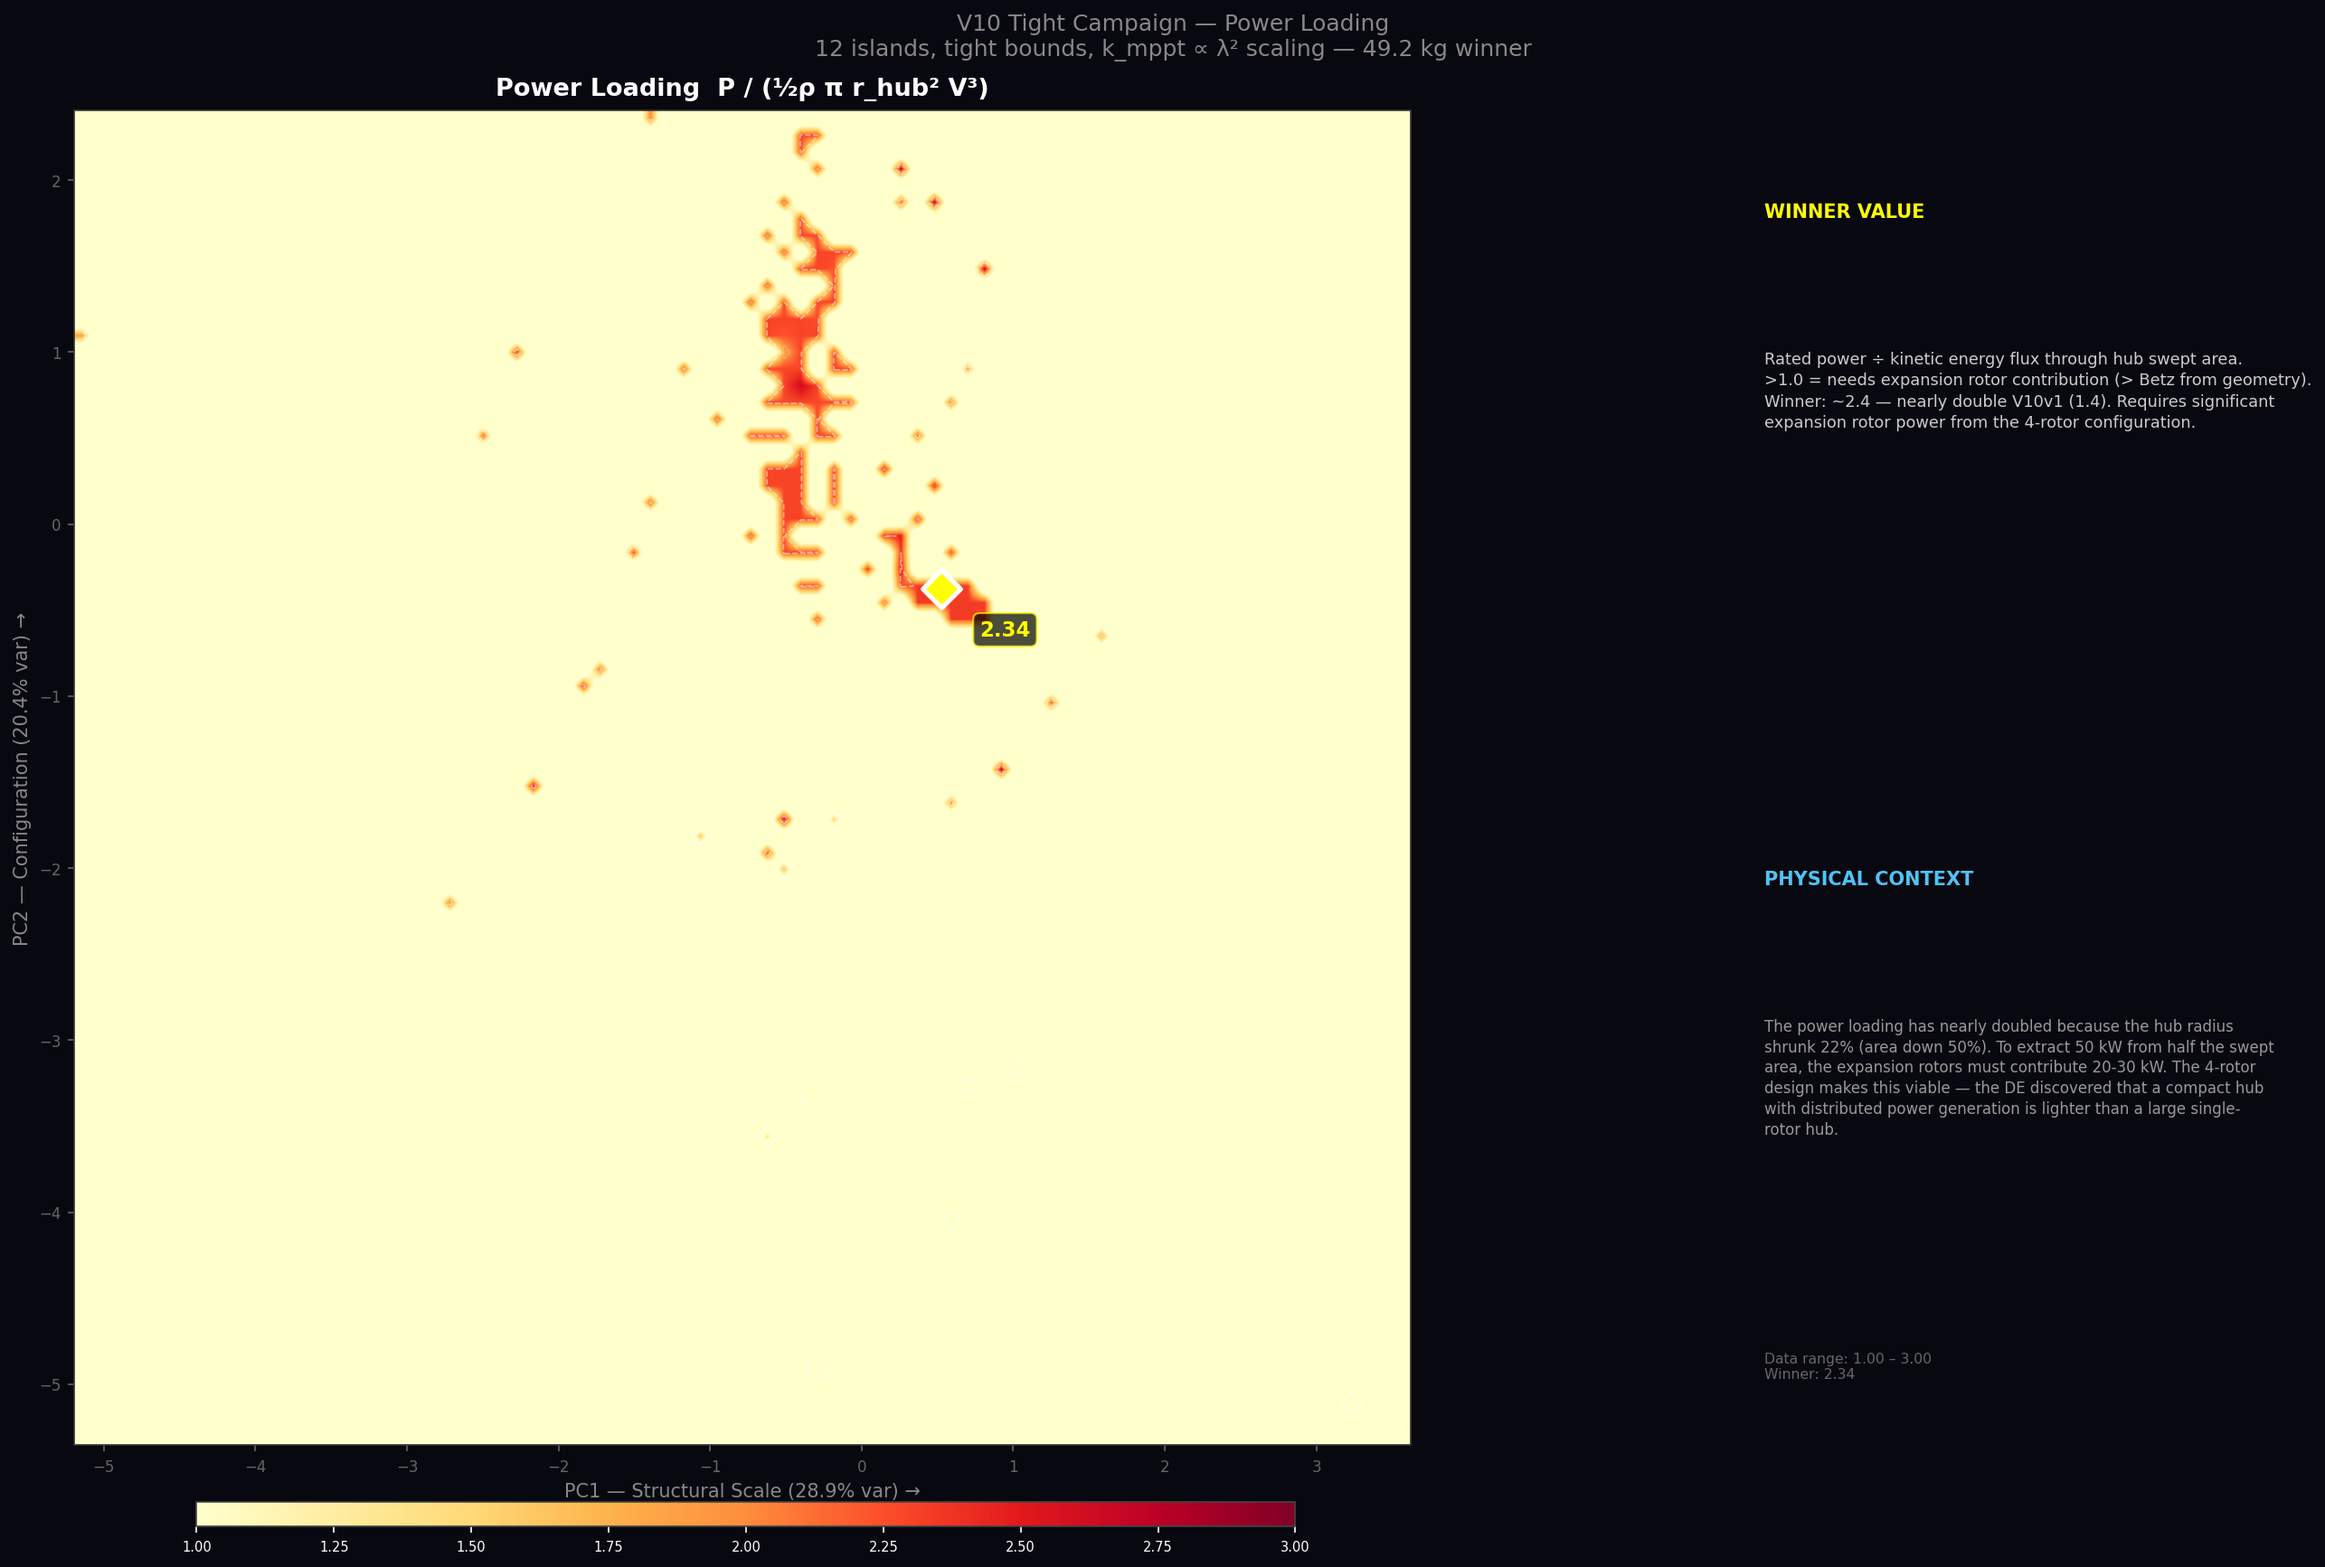
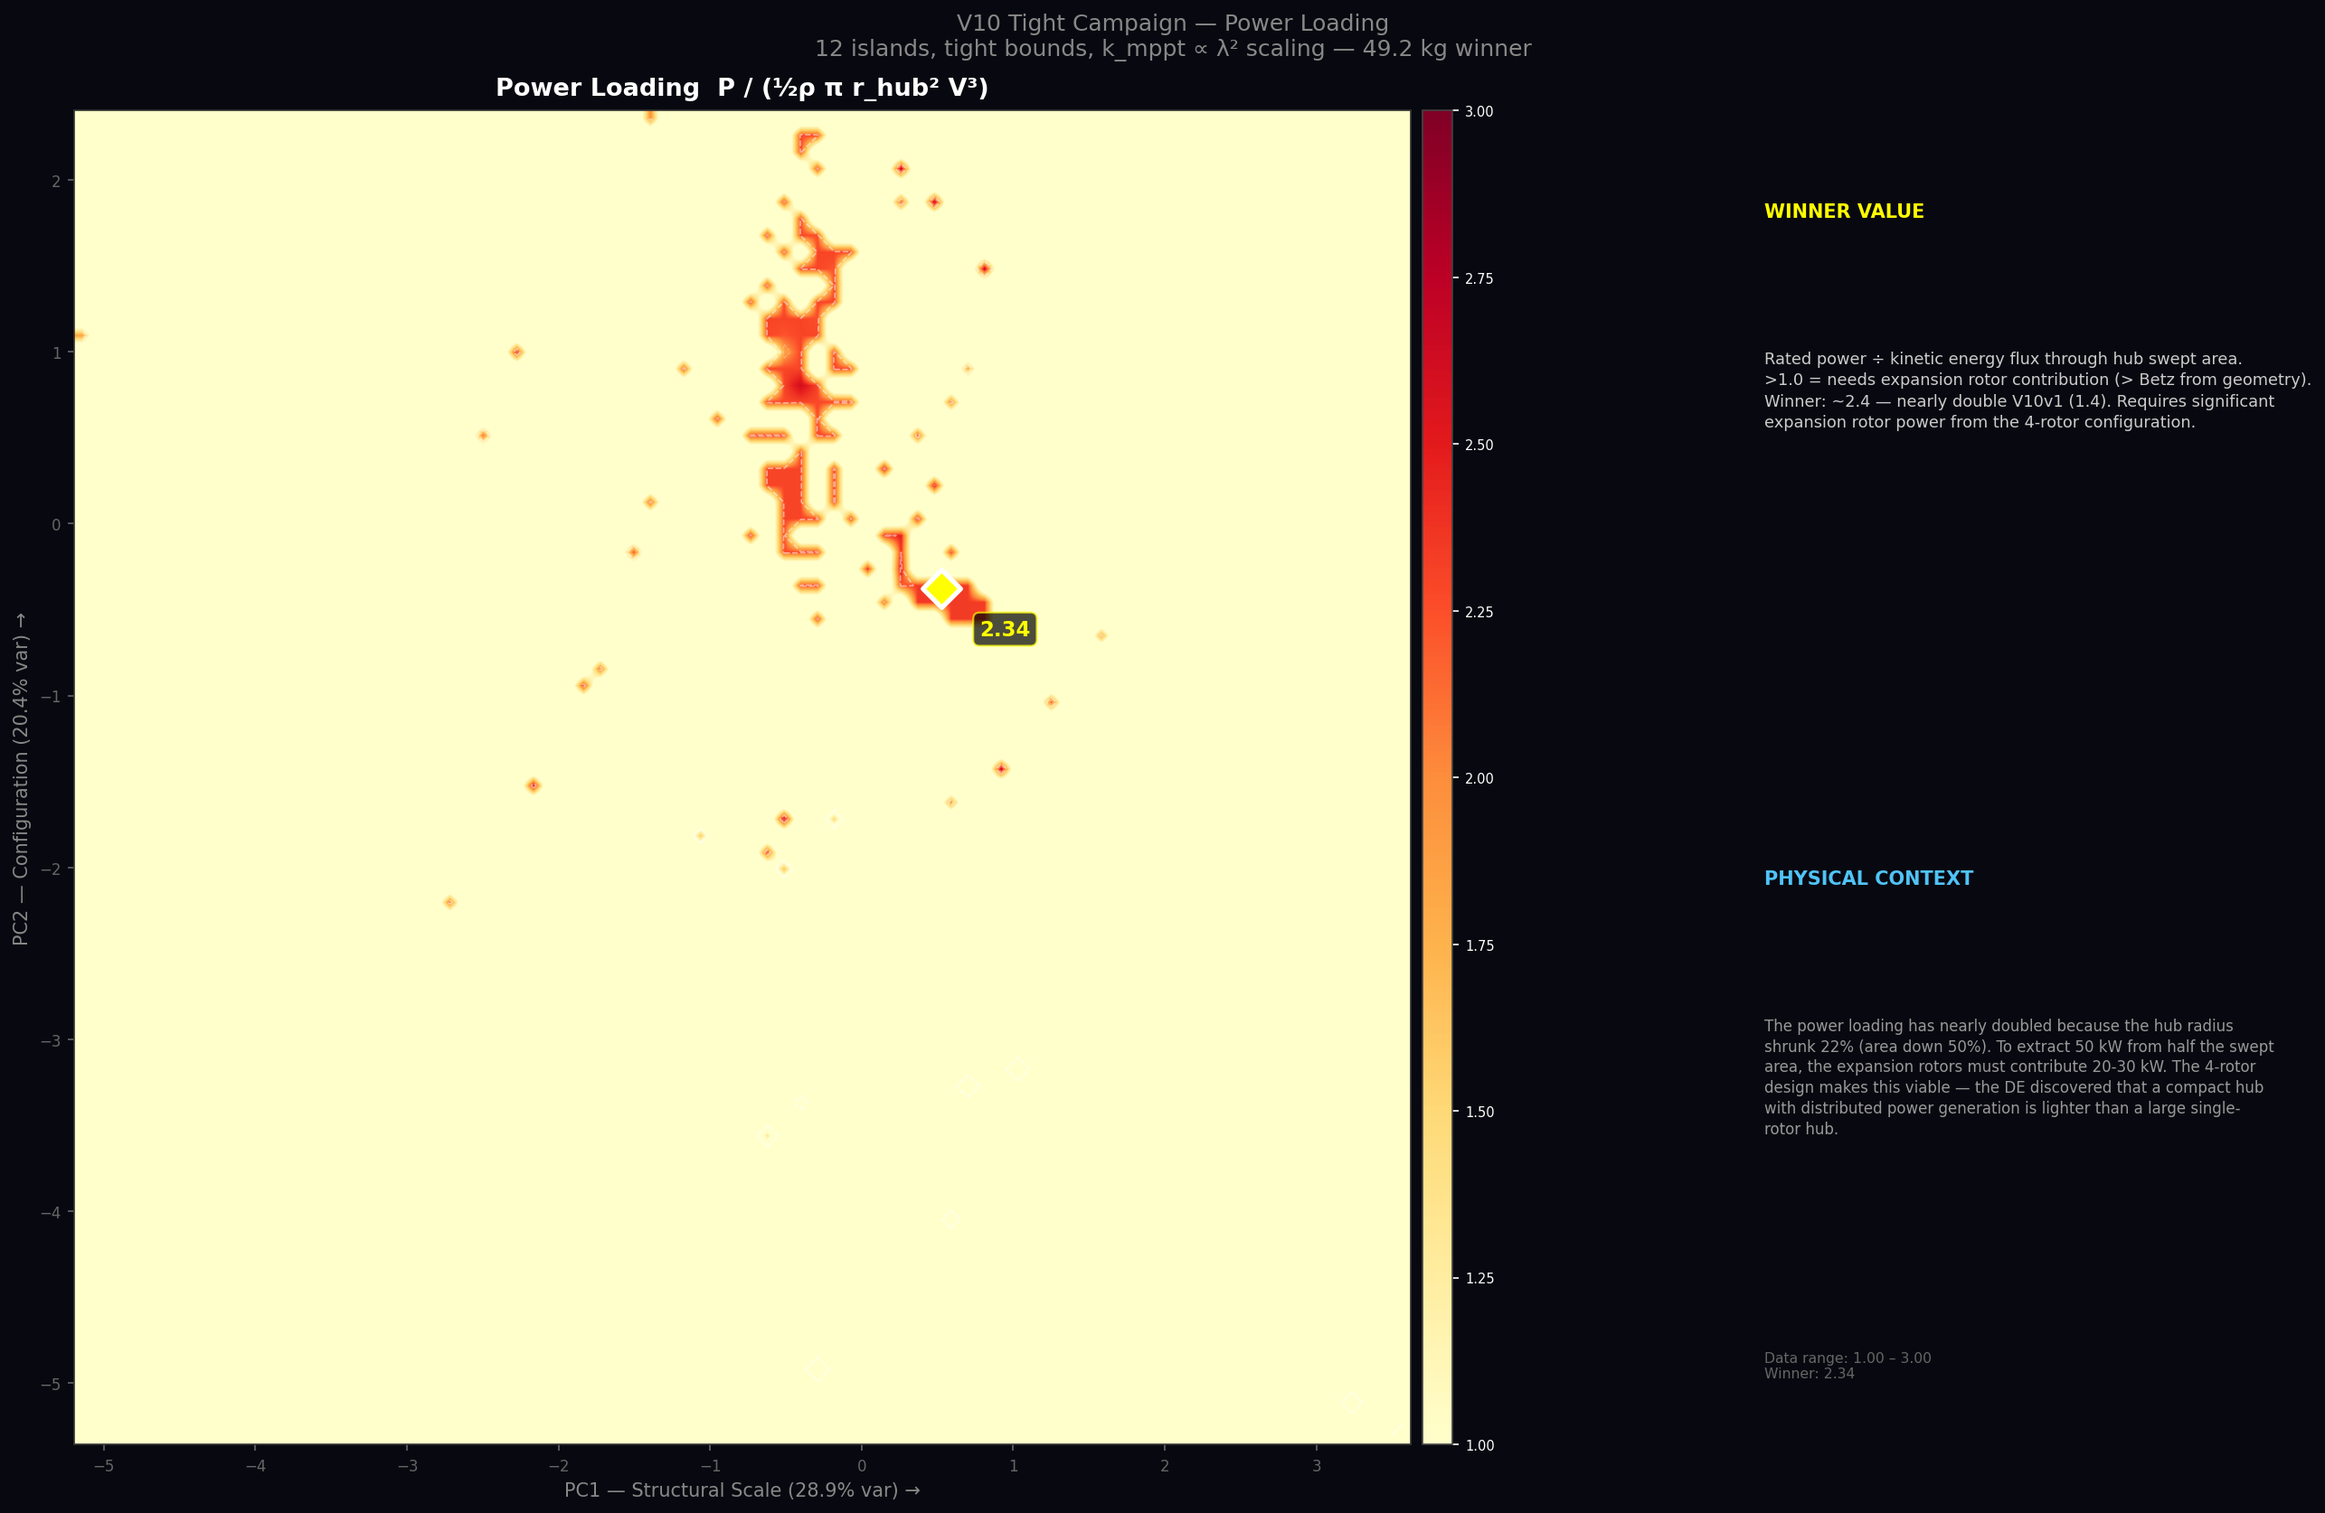
fix: colorbar positioned dynamically against heatmap edge, clear of text panel
Uses ax.get_position() to place vertical colorbar at x1+0.005,
ensuring it stays tight to the heatmap right edge without
extending into the text annotation panel on the right.

diff --git a/scripts/render_v10_tight_panels.py b/scripts/render_v10_tight_panels.py
@@ -132,9 +132,12 @@ for field, cmap, title, callout, context, vmin_o, vmax_o in PI_PANELS:
     ax.set_title(title, fontsize=13, color='white', fontweight='bold', pad=8)
     ax.set_xlim(apc1.min(), apc1.max()); ax.set_ylim(apc2.min(), apc2.max())
     
-    # Colorbar at bottom of heatmap
-    cbar_ax = fig.add_axes([0.10, 0.03, 0.45, 0.015])
-    cbar = fig.colorbar(im, cax=cbar_ax, orientation='horizontal')
+    # Colorbar — vertical, inside heatmap right margin
+    # GridSpec width_ratios [3, 1.2] with wspace=0.35, left=0.05, right=0.95
+    # Heatmap spans ~3/(3+1.2+0.35) of 0.90 = ~0.59, ending at ~0.64
+    ax_pos = ax.get_position()
+    cbar_ax = fig.add_axes([ax_pos.x1 + 0.005, ax_pos.y0, 0.012, ax_pos.height])
+    cbar = fig.colorbar(im, cax=cbar_ax, orientation='vertical')
     cbar.ax.tick_params(labelsize=7, colors='white'); cbar.outline.set_edgecolor('#444')
     
     # Right panel: context + callout

diff --git a/scripts/render_v10_tight_param_panels.py b/scripts/render_v10_tight_param_panels.py
@@ -95,9 +95,10 @@ for field, cmap, title, callout, context, vmin_o, vmax_o in PARAM_PANELS:
     ax.set_title(title, fontsize=13, color='white', fontweight='bold', pad=8)
     ax.set_xlim(apc1.min(), apc1.max()); ax.set_ylim(apc2.min(), apc2.max())
     
-    # Colorbar at bottom of heatmap
-    cbar_ax = fig.add_axes([0.10, 0.03, 0.45, 0.015])
-    cbar = fig.colorbar(im, cax=cbar_ax, orientation='horizontal')
+    # Colorbar — vertical, inside heatmap right margin
+    ax_pos = ax.get_position()
+    cbar_ax = fig.add_axes([ax_pos.x1 + 0.005, ax_pos.y0, 0.012, ax_pos.height])
+    cbar = fig.colorbar(im, cax=cbar_ax, orientation='vertical')
     cbar.ax.tick_params(labelsize=7, colors='white'); cbar.outline.set_edgecolor('#444')
     
     ax_r = fig.add_subplot(gs[0, 1]); ax_r.set_xlim(0, 1); ax_r.set_ylim(0, 1); ax_r.axis('off')
